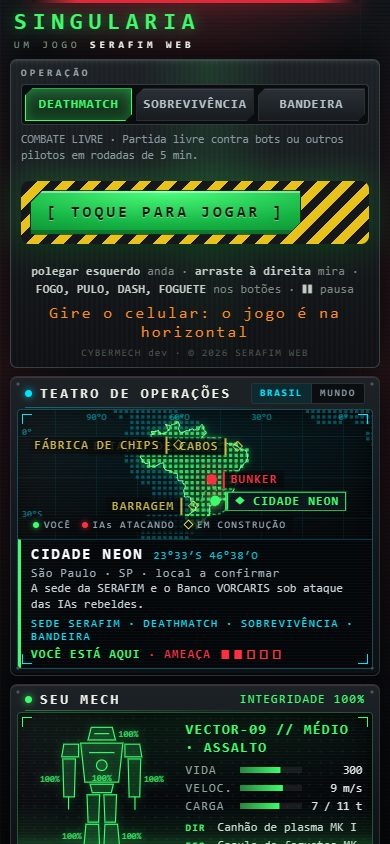
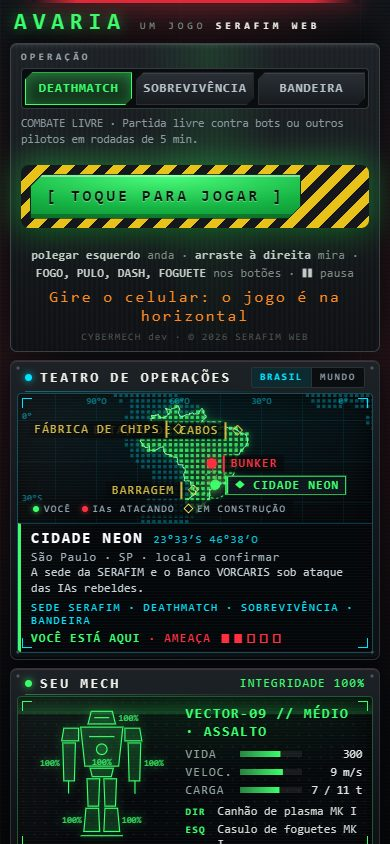
docs(ui): capturas do console com o título AVARIA e o ESTADO_ATUAL sem a frase da P79

diff --git a/.decepticons/ESTADO_ATUAL.md b/.decepticons/ESTADO_ATUAL.md
@@ -30,7 +30,7 @@ gamificada"; (P85) assistir às câmeras de várias partidas pelo servidor, cham
 e no `Quality` adaptativo (que mede o quadro) e o smoke confere os draws, então é tarefa própria; (3) o **radar online só mostra você**; (4) **quatro dos cinco lugares das missões são propostas** ("local a confirmar"; só Fortaleza vem do `UNIVERSO.md`) e três missões ainda nem existem;
 (5) as etapas A a E do `PAINEL_ADMIN.md` (**ficha de cada bot, campanha, servidor**) e a **H (câmeras ao vivo de várias partidas)** e a **I (mesa dentro do console)** seguem só no plano (§7, com o desenho do contrato `OBSERVAR(sala)`); (6) a Sala de controle e a Oficina só têm link no site (no `npm run dev` somem).
 
-**Para as outras equipes:** **Gemini** (território: `ui/`, `styles.css`, `index.html`): o Comandante pediu isto direto ao Claude, como o UI-1 a UI-5; o seu `LoginPanel` (branch `gemini/tela-login`) precisa de um lugar no console: o monitor **CARREIRA** (`#menu-profile`) ou um selo no topo (`.cc-flags`); juntar a `main` antes. A **P79** (SINGULARIA → AVARIA) agora é o `<h1>` de `.cc-brand` e o `<title>` em `client/index.html`.
+**Para as outras equipes:** **Gemini** (território: `ui/`, `styles.css`, `index.html`): o Comandante pediu isto direto ao Claude, como o UI-1 a UI-5; o seu `LoginPanel` (branch `gemini/tela-login`) precisa de um lugar no console: o monitor **CARREIRA** (`#menu-profile`) ou um selo no topo (`.cc-flags`); juntar a `main` antes. O título do console (`<h1>` de `.cc-brand`) já é **AVARIA** (a P79 entrou na `main` antes deste PR; o conflito foi resolvido mantendo o console com o nome novo).
 **Codex:** o console é opaco; se for mexer no `frame()` para estrangular o desenho com o console à vista, o `DebugPanel` e o smoke dependem dos `draws`.
 
 **Próxima sessão começa com:** o playtest do Comandante no site (GPU real) e as respostas: **os lugares das missões**, o que entra no monitor COMANDO primeiro. Depois, uma tarefa por PR: `claude/bot-spec` (etapas A e B do `PAINEL_ADMIN.md`: a ficha de cada bot) ou `claude/observar-sala` (contrato das câmeras ao vivo), na ordem que o Comandante escolher.
